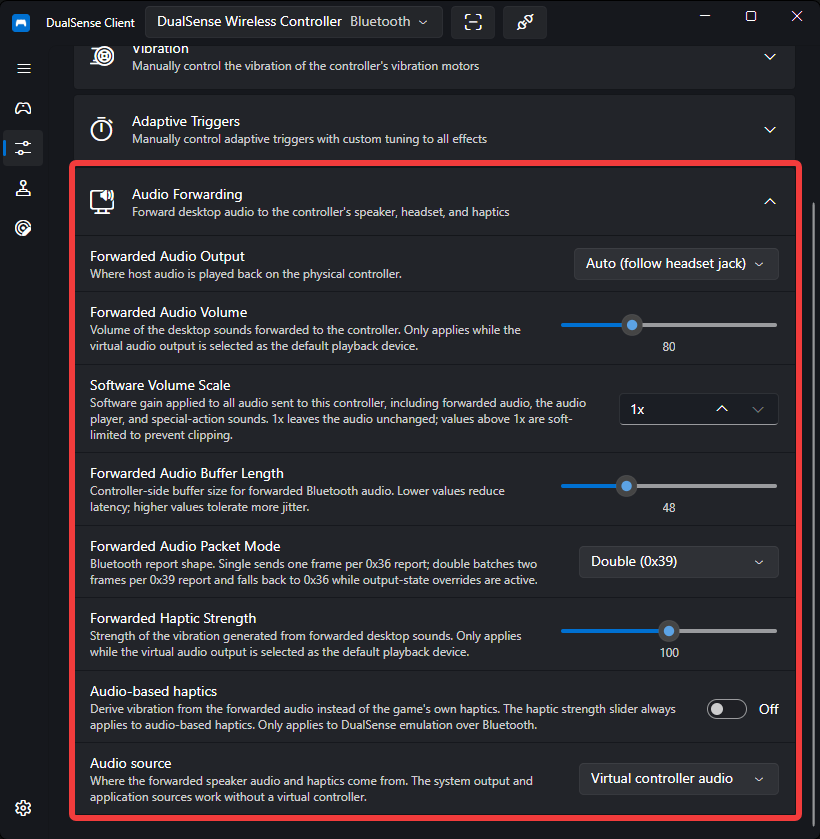
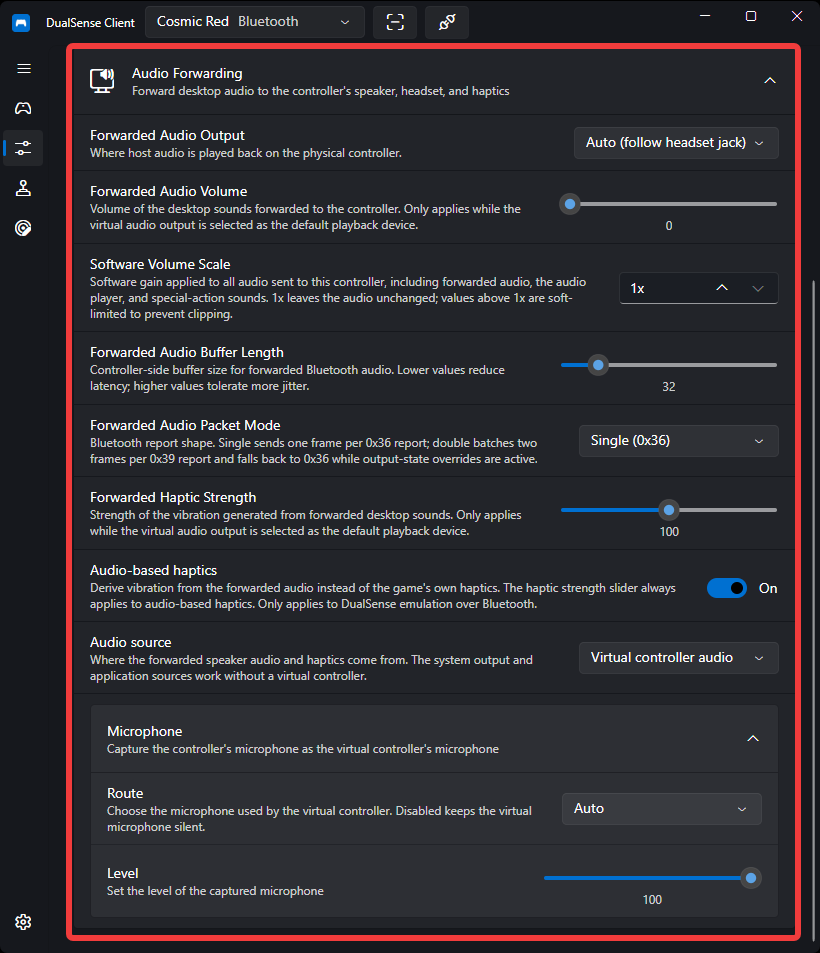
docs(audio): Document virtual controller microphone support
- Document the virtual microphone in the audio guide: 48 kHz stereo for
DualSense, 16 kHz mono for DualShock 4, route and level options, the
passthrough switch, and Bluetooth-only operation.
- Explain that the stream runs only while an application records from
the virtual endpoint, and recommend hiding the physical controller so
other applications do not misparse microphone packets as gamepad input.
- Add the microphone summary to the virtual-controller guide, list the
microphone passthrough with the other host feedback options, and add a
phantom-input entry to troubleshooting.
- Refresh the Audio Forwarding screenshot to include the microphone
route and level, and add a Passthroughs screenshot.
- Correct the passthrough setting description: it applies to DualShock 4
as well as DualSense.

diff --git a/source/DualSenseClient.Settings/Sections/EmulationSettings.cs b/source/DualSenseClient.Settings/Sections/EmulationSettings.cs
@@ -349,7 +349,7 @@ public class ForwardSettings
     /// <summary>
     /// Gets or sets whether the physical controller's microphone is forwarded to the
     /// host as the audio of the virtual controller's microphone endpoint (true by
-    /// default). Only applies to DualSense emulation.
+    /// default). Applies to DualShock 4 and DualSense emulation.
     /// </summary>
     [JsonPropertyName("microphone_enabled")]
     public bool MicrophoneEnabled { get; set; } = true;

diff --git a/docs/guides/virtual-controller.md b/docs/guides/virtual-controller.md
@@ -75,7 +75,7 @@ If no mapping is desired, leave the editor empty — the default one-to-one mapp
 
 Host audio can be forwarded to your **physical controller's speaker or headset**, with hardware volume and software volume scale controls and haptic-strength controls. These settings live under **Customization → Audio Forwarding**.
 
-![Audio Forwarding settings on the Customization page](../assets/images/audio-forwarding-customization.png)
+![Audio Forwarding settings on the Customization page, including microphone route and level](../assets/images/audio-forwarding-customization.png)
 
 - **Forwarded Audio Output** — `Auto` (follows the controller's headset jack), `Speaker`, or `Headset`.
 - **Forwarded Audio Volume** — 0 – 255. The controller's hardware speaker/headset volume.
@@ -95,6 +95,9 @@ Host feedback passthroughs are configured per controller in **Emulation → Virt
 - **Player LEDs** — the game's player indicator LEDs. DualSense emulation only.
 - **Game haptics** — the game's own haptic payload. Audio-based haptics keep running when this is off. DualSense emulation only.
 - **Controller audio passthrough** — audio the game sends to the virtual controller's own audio endpoint. The system-output and specific-application sources keep working when this is off, and game haptics stay active when they are enabled. DualShock 4 and DualSense emulation.
+- **Microphone passthrough** — the physical controller's microphone, exposed as the virtual controller's microphone. DualSense and DualShock 4 emulation over Bluetooth only.
+
+![Passthroughs on the Virtual Controller page, including the Microphone passthrough switch](../assets/images/virtual-controller-passthroughs.png)
 
 ### Audio Sources
 
@@ -107,6 +110,17 @@ Choose what feeds the forwarding from the **Audio source** dropdown:
 For the specific-application source, choose the application from the list of programs currently playing audio or browse for its executable file. The sources are mutually exclusive, and you can switch between them while a game is running.
 
 Audio forwarding works in any emulation mode, including off, for the system-output and specific-application sources. It can also be overridden per program in [Auto Profiles](auto-profiles.md).
+
+### Microphone
+
+A virtual DualSense or DualShock 4 can feed the physical controller's microphone to the host as the virtual controller's microphone. The virtual DualSense exposes 48 kHz stereo; the virtual DualShock 4 exposes 16 kHz mono. Xbox 360 emulation has no microphone. See [Audio Playback](audio.md#microphone) for the full behavior.
+
+- **Route** — `Auto`, `Built-in`, `Headphone`, or `Disabled`, under **Customization → Audio Forwarding → Microphone**. `Disabled` turns the controller microphone off.
+- **Level** — 0 – 100% under the same section.
+- **Microphone passthrough** — the master on/off switch in the **Passthroughs** section above. It applies live and requires a Bluetooth connection.
+
+!!! note
+    The route and level apply over both USB and Bluetooth, independently of emulation. The **Microphone passthrough** itself needs the physical controller connected over **Bluetooth**, and it streams only while an application is recording from the virtual microphone. Over USB, the controller's own audio device already provides the microphone. Hide the physical controller while using the virtual microphone — see [Controller Hiding](controller-hiding.md) — so other applications do not misread its microphone packets as gamepad input.
 
 ## Audio Player
 

diff --git a/docs/guides/audio.md b/docs/guides/audio.md
@@ -41,3 +41,29 @@ Open the **Emulation** page and expand **Audio Player**.
     The per-controller **Software Volume Scale** under **Customization → Audio Forwarding** also applies to the audio player. It is shared with forwarded audio and special-action sounds; `1x` leaves the audio unchanged, and values above `1x` are soft-limited to prevent clipping.
 
 Audio played by other applications can also be forwarded to the controller's speaker or headset. That is configured separately under [Audio Forwarding](virtual-controller.md#audio-forwarding).
+
+## Microphone
+
+A virtual DualSense or DualShock 4 can also expose the physical controller's microphone to the PC, so games and voice-chat applications can record from the virtual controller like any other microphone. This requires the physical controller to be connected over **Bluetooth** — over USB the controller's own audio device already provides the microphone. Virtual controller emulation is currently Windows-only.
+
+| Virtual controller | Microphone format |
+| ------------------ | ----------------- |
+| DualSense          | 48 kHz stereo     |
+| DualShock 4        | 16 kHz mono       |
+
+The controller's microphone is mono, so the virtual DualSense duplicates it to both stereo channels. Xbox 360 emulation has no microphone endpoint.
+
+Configure the microphone under **Customization → Audio Forwarding → Microphone**:
+
+- **Route** — `Auto` uses the controller's built-in microphone, or its headset microphone when one is plugged in (the default). `Built-in` always uses the built-in microphone. `Headphone` always uses the headset microphone. `Disabled` turns the controller microphone off.
+- **Level** — 0 – 100% (default 100%). Maps to the controller's own microphone volume.
+
+The section is shown whenever a DualSense is connected. The route and level apply over both USB and Bluetooth, independently of emulation; they configure the controller's own microphone for applications that use its audio device directly. Stored values are kept while it is hidden.
+
+Over Bluetooth, the **Microphone passthrough** switch under [Emulation → Virtual Controller → Passthroughs](virtual-controller.md#host-feedback) is the master switch for feeding the physical microphone into the virtual controller. It applies live, without recreating the virtual device. Switching it off silences the virtual microphone and stops the physical controller's microphone stream immediately; switching it back on resumes the stream while the recording application keeps the endpoint open. The route's `Disabled` option is an additional off switch for the physical microphone itself.
+
+!!! note
+    The controller microphone stream runs only while an application is recording from the virtual controller's microphone. Closing the recording application stops the stream, and no microphone traffic is sent while nothing is recording.
+
+!!! tip
+    Hide the physical controller while using the virtual microphone — see [Controller Hiding](controller-hiding.md). Otherwise, applications that open the physical controller directly can misread its microphone packets as gamepad input.

diff --git a/docs/troubleshooting.md b/docs/troubleshooting.md
@@ -98,6 +98,12 @@ This happens when both the physical controller and an emulated virtual controlle
 
 The app whitelists itself automatically, so it keeps seeing the hidden controller while games no longer do. See the [Controller Hiding guide](guides/controller-hiding.md).
 
+### Phantom Input While the Virtual Microphone Is Active
+
+While a virtual microphone is active on a Bluetooth controller, the physical controller sends microphone packets alongside its normal input reports. An application that reads the physical controller directly may misparse those packets as gamepad input, producing phantom stick movement or button presses.
+
+Hide the physical controller so only DualSense Client reads it — see [Controller Hiding](guides/controller-hiding.md). See [Audio Playback: Microphone](guides/audio.md#microphone) for the microphone controls and limitations.
+
 ## Logs
 
 The app writes date-rotated log files next to the executable:
